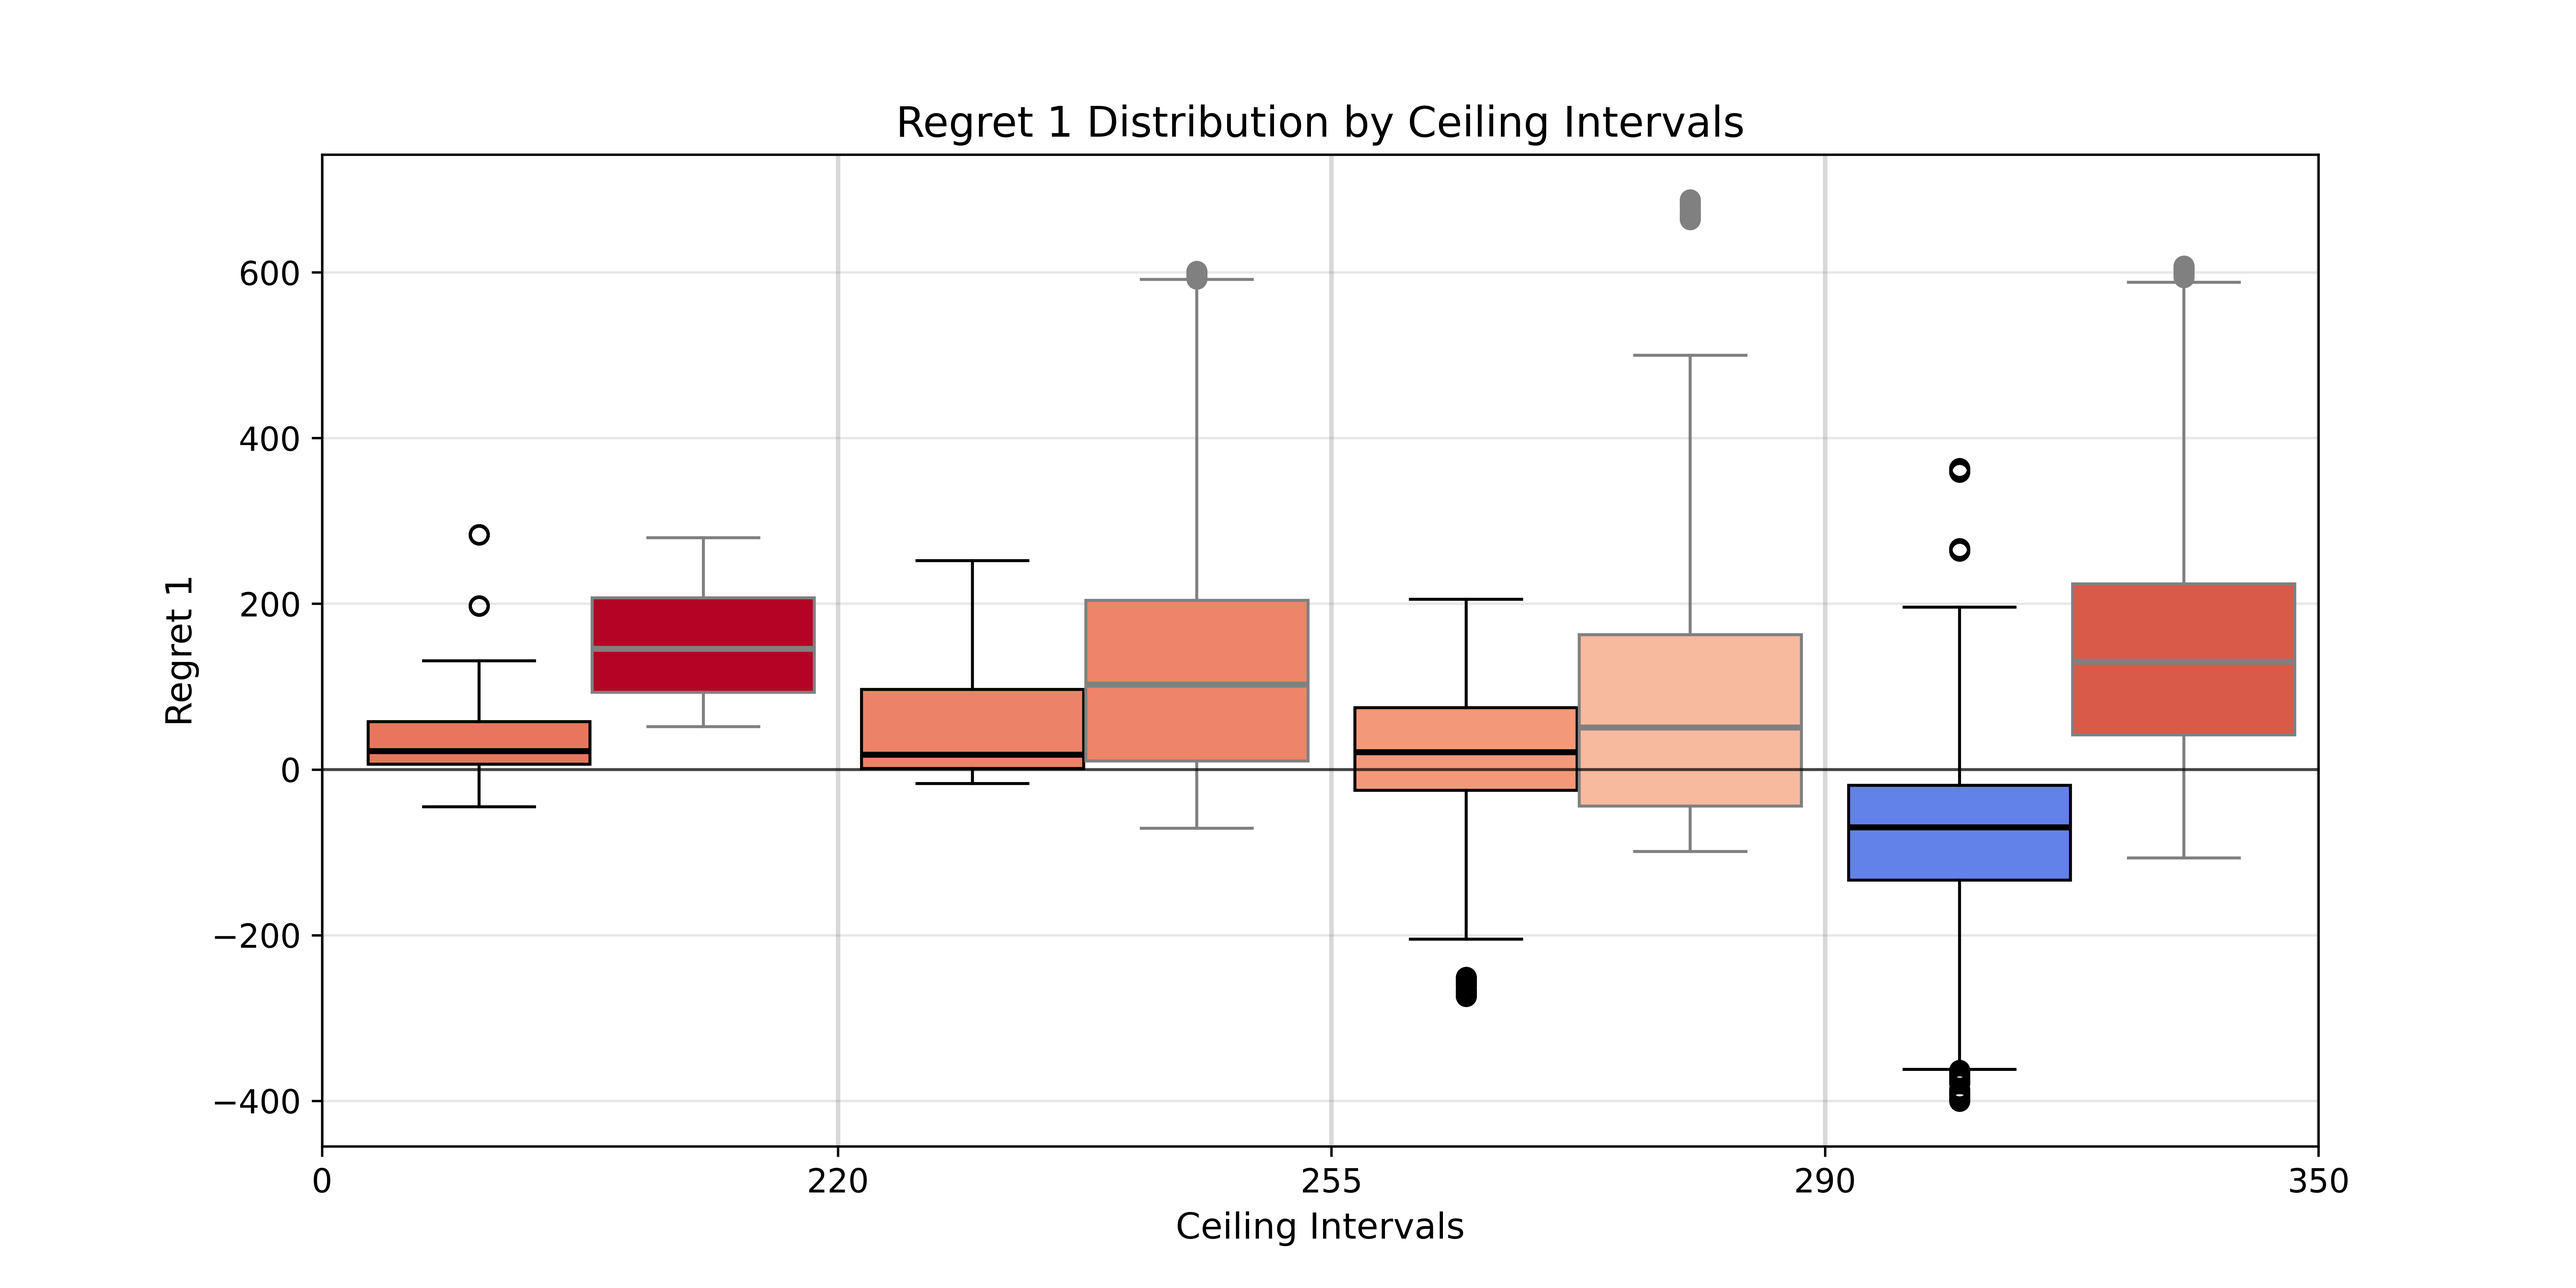
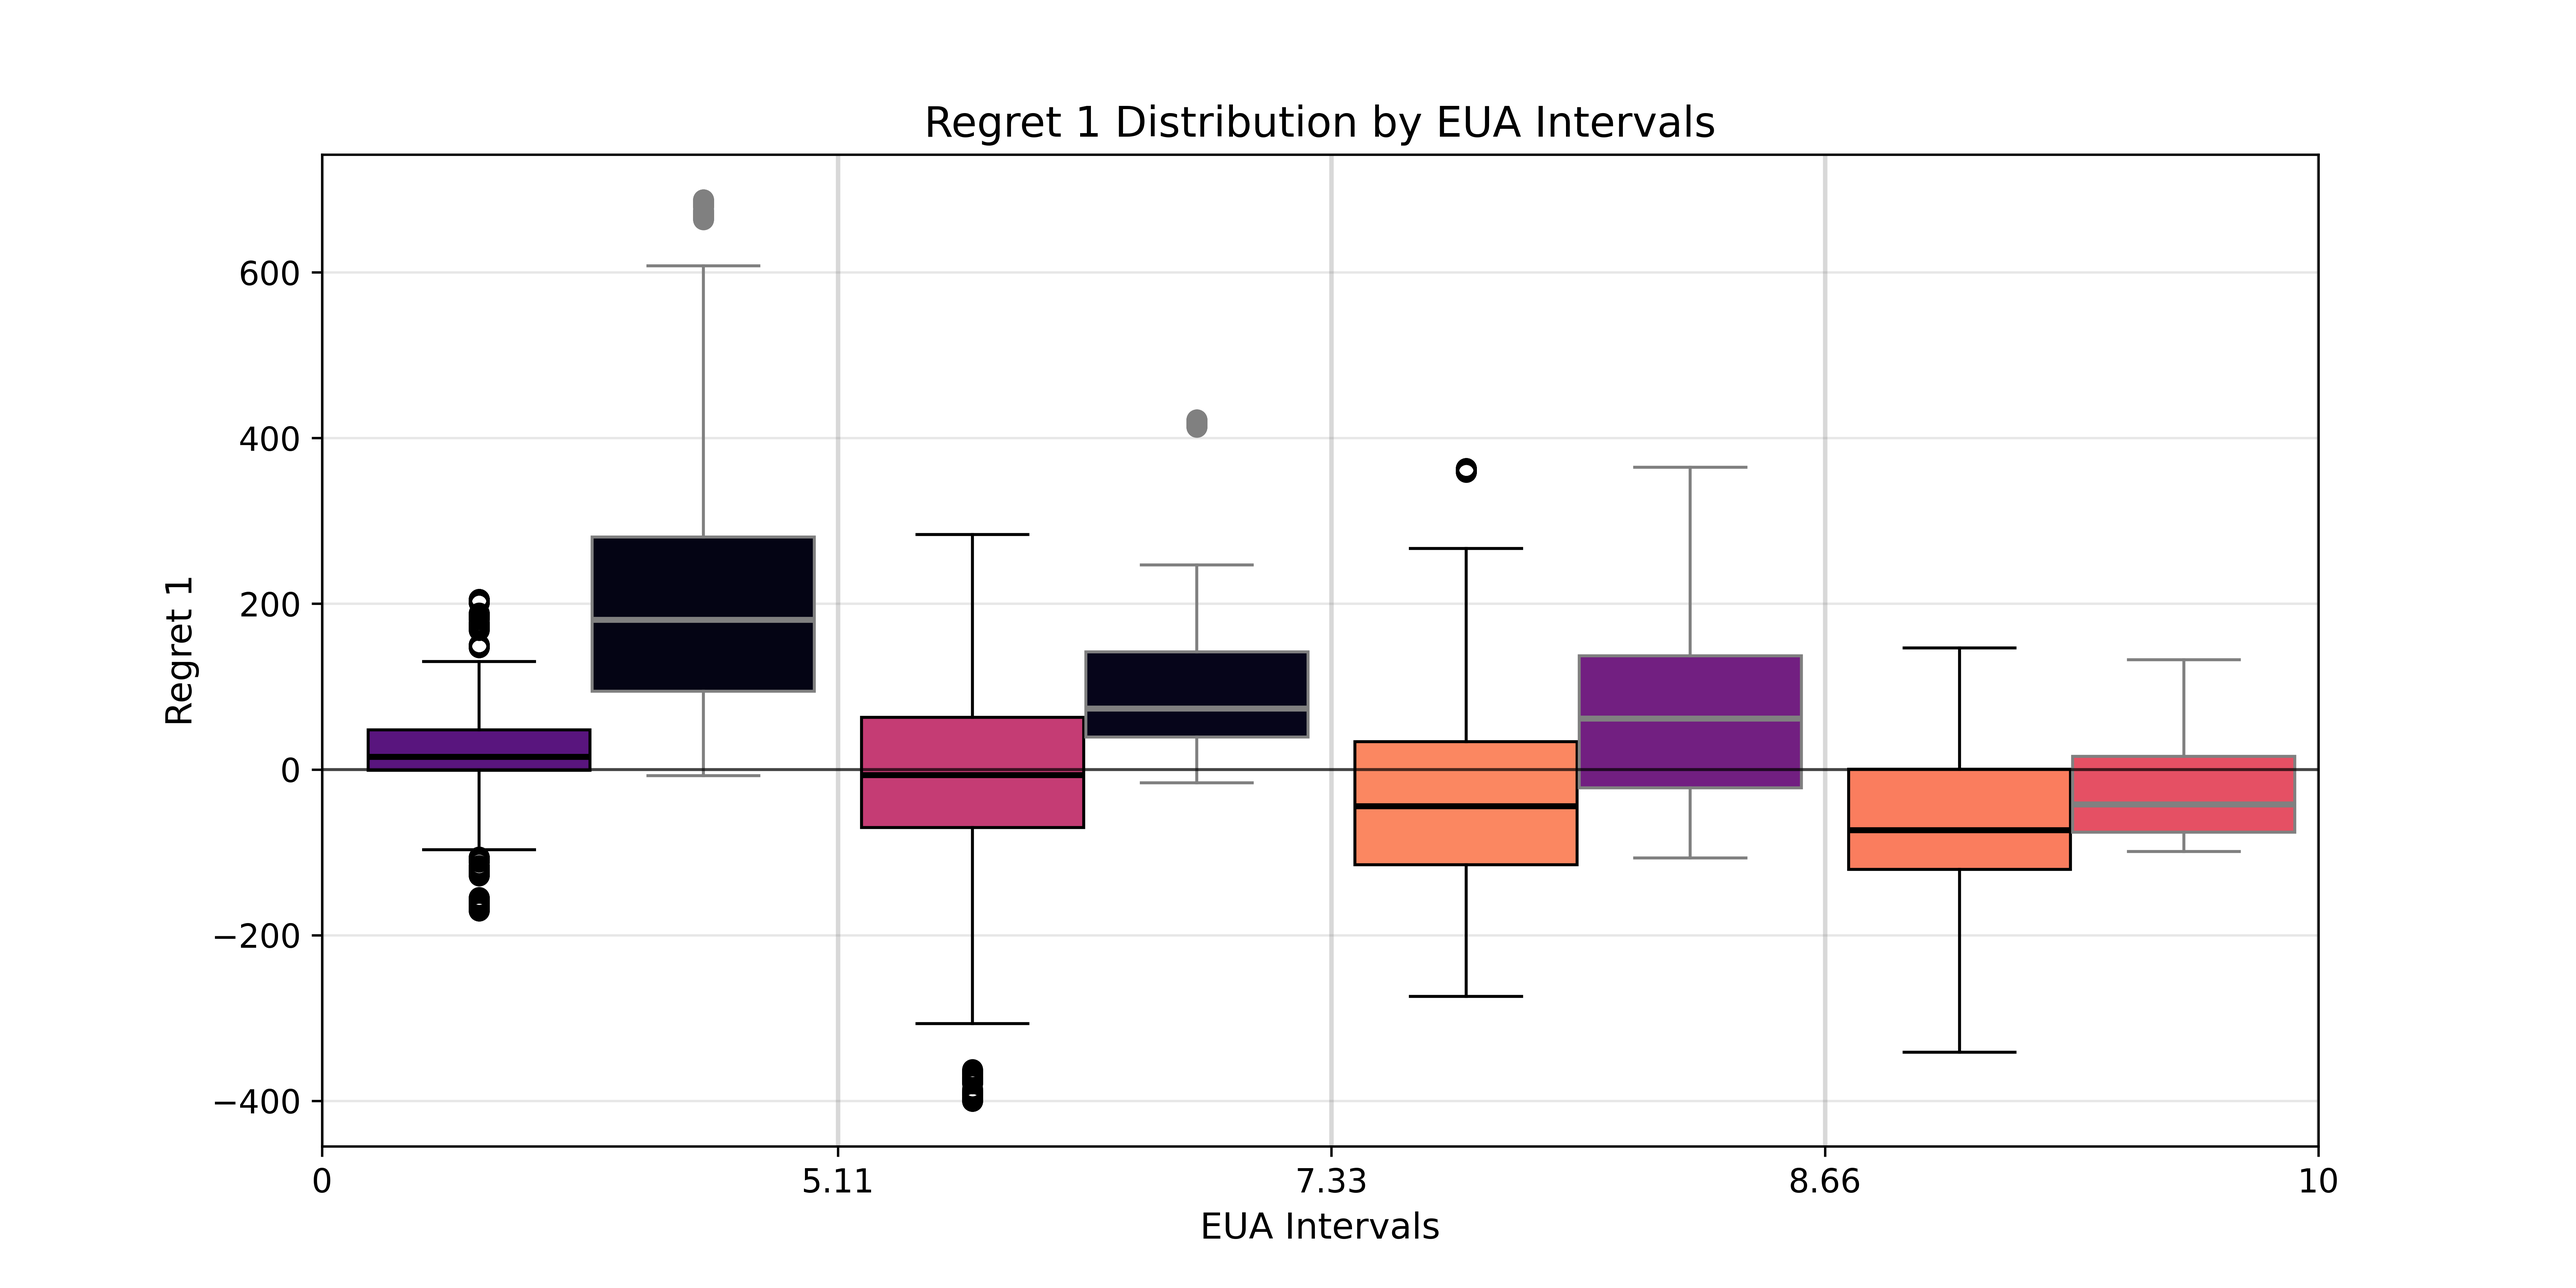
New sdplots

diff --git a/sdplot_2_alternative.py b/sdplot_2_alternative.py
@@ -18,8 +18,8 @@ data_false = data[data["Procurement"] == False].reset_index(drop=True)
 # crc_intervals = [(25, 120), (120, 170), (170, 220), (220, 300)]
 # labels = ["25-120", "120-170", "170-220", "220-300"]
 
-ceiling_intervals = [(0, 220), (220, 255), (255, 290), (290, 350)]
-labels = ["0-220", "220-255", "255-290", "290-350"]
+EUA_intervals = [(0, 5.11), (5.11, 7.33), (7.33, 8.66), (8.66, 10)]  # 0, 5.11, 7.33, 8.66, 10 intervals from CART analysis
+labels = ["0-5.11", "5.11-7.33", "7.33-8.66", "8.66-10"]
 
 plt.figure(figsize=(12, 6))
 box_data_true = []
@@ -27,9 +27,9 @@ box_data_false = []
 densities_true = []
 densities_false = []
 
-for start, end in ceiling_intervals:
-    data_true_interval = data_true[(data_true["ceiling"] >= start) & (data_true["ceiling"] < end)]
-    data_false_interval = data_false[(data_false["ceiling"] >= start) & (data_false["ceiling"] < end)]
+for start, end in EUA_intervals:
+    data_true_interval = data_true[(data_true["EUA"] >= start) & (data_true["EUA"] < end)]
+    data_false_interval = data_false[(data_false["EUA"] >= start) & (data_false["EUA"] < end)]
     
     box_data_true.append(data_true_interval["regret_1"])
     box_data_false.append(data_false_interval["regret_1"])
@@ -48,10 +48,10 @@ for start, end in ceiling_intervals:
     densities_false.append(density_false)
 
 print("Densities (fraction with regret_1 > 0) and data point counts:")
-for i, (start, end) in enumerate(ceiling_intervals):
+for i, (start, end) in enumerate(EUA_intervals):
     count_true = len(box_data_true[i])
     count_false = len(box_data_false[i])
-    print(f"ceiling {start}-{end}: Procurement=True: {densities_true[i]:.3f} ({count_true} points), Procurement=False: {densities_false[i]:.3f} ({count_false} points)")
+    print(f"EUA {start}-{end}: Procurement=True: {densities_true[i]:.3f} ({count_true} points), Procurement=False: {densities_false[i]:.3f} ({count_false} points)")
 
 # Create boxplots with proper positioning
 positions_true = [0.7, 2.9, 5.1, 7.3]
@@ -88,18 +88,18 @@ for element in ['boxes', 'whiskers', 'caps', 'medians', 'fliers']:
 for patch, color in zip(bp2["boxes"], colors_false):
     patch.set_facecolor(color)
 
-plt.xlabel("Ceiling Intervals", fontsize=12)
+plt.xlabel("EUA Intervals", fontsize=12)
 plt.ylabel("Regret 1", fontsize=12)
-plt.title("Regret 1 Distribution by Ceiling Intervals", fontsize=14)
+plt.title("Regret 1 Distribution by EUA Intervals", fontsize=14)
 # Create tick positions that align with vertical grid lines and interval boundaries
 # Ticks should be at: start of first interval, midpoints between box pairs, and end of last interval
 tick_positions = [0, 2.3, 4.5, 6.7, 8.9]  # Align with axvline positions and full range
-tick_labels = ["0", "220", "255", "290", "350"]  # Start and end values of intervals
+tick_labels = ["0", "5.11", "7.33", "8.66", "10"]  # Start and end values of intervals
 
 plt.xticks(tick_positions, tick_labels, fontsize=11)
 plt.yticks(fontsize=11)
 plt.grid(True, alpha=0.3, axis='y')  # Only horizontal grid lines
-# Add vertical grid lines between ceiling intervals
+# Add vertical grid lines between EUA intervals
 for pos in [0, 2.3, 4.5, 6.7, 8.9]:
     plt.axvline(x=pos, color='gray', alpha=0.3, linestyle='-')
 plt.xlim(0, 8.9)
@@ -112,14 +112,14 @@ plt.savefig("sd_2_integration.png", dpi=600)
 
 # Create a separate figure showing only Procurement=False boxes
 print("\nDensities for Procurement=False only:")
-for i, (start, end) in enumerate(ceiling_intervals):
+for i, (start, end) in enumerate(EUA_intervals):
     count_false = len(box_data_false[i])
-    print(f"ceiling {start}-{end}: Procurement=False: {densities_false[i]:.3f} ({count_false} points)")
+    print(f"EUA {start}-{end}: Procurement=False: {densities_false[i]:.3f} ({count_false} points)")
 
-plt.figure(figsize=(9, 3.75))
+plt.figure(figsize=(8, 4.25))
 
 # Create boxplots for Procurement=False only
-bp_false_only = plt.boxplot(box_data_false, positions=range(1, len(ceiling_intervals) + 1), 
+bp_false_only = plt.boxplot(box_data_false, positions=range(1, len(EUA_intervals) + 1), 
                            patch_artist=True, 
                            boxprops=dict(linewidth=1),
                            medianprops=dict(color='black', linewidth=2),
@@ -130,12 +130,12 @@ for patch, color in zip(bp_false_only["boxes"], colors_false):
     patch.set_facecolor(color)
 
 # Customize the plot
-plt.xlabel("Ceiling Intervals", fontsize=12)
+plt.xlabel("EUA Intervals", fontsize=12)
 plt.ylabel("Regret 1", fontsize=12)
-plt.title("Regret 1 Distribution by Ceiling Intervals (Procurement=False Only)", fontsize=14)
+plt.title("Regret 1 Distribution by EUA Intervals (Procurement=False Only)", fontsize=14)
 
 # Set tick positions and labels
-tick_positions = range(1, len(ceiling_intervals) + 1)
+tick_positions = range(1, len(EUA_intervals) + 1)
 tick_labels = labels
 plt.xticks(tick_positions, tick_labels, fontsize=14)
 plt.yticks(fontsize=14)
@@ -143,7 +143,7 @@ plt.gca().yaxis.set_major_locator(plt.MaxNLocator(nbins=6))
 
 plt.grid(True, alpha=0.3, axis='y')
 plt.axhline(y=0, color='black', linestyle='-', linewidth=1, alpha=0.7)
-# plt.xlim(0.5, len(ceiling_intervals) + 0.5)
+# plt.xlim(0.5, len(EUA_intervals) + 0.5)
 # get ylimits 
 y_limits = plt.ylim()
 plt.ylim(-150, y_limits[1])
@@ -154,14 +154,14 @@ plt.savefig("sd_2_integration_false_only.png", dpi=600)
 
 # Create a separate figure showing only Procurement=True boxes
 print("\nDensities for Procurement=True only:")
-for i, (start, end) in enumerate(ceiling_intervals):
+for i, (start, end) in enumerate(EUA_intervals):
     count_true = len(box_data_true[i])
-    print(f"ceiling {start}-{end}: Procurement=True: {densities_true[i]:.3f} ({count_true} points)")
+    print(f"EUA {start}-{end}: Procurement=True: {densities_true[i]:.3f} ({count_true} points)")
 
-plt.figure(figsize=(9, 3.75))
+plt.figure(figsize=(8, 4.25))
 
 # Create boxplots for Procurement=True only
-bp_true_only = plt.boxplot(box_data_true, positions=range(1, len(ceiling_intervals) + 1), 
+bp_true_only = plt.boxplot(box_data_true, positions=range(1, len(EUA_intervals) + 1), 
                           patch_artist=True, 
                           boxprops=dict(linewidth=1),
                           medianprops=dict(color='black', linewidth=2),
@@ -172,12 +172,12 @@ for patch, color in zip(bp_true_only["boxes"], colors_true):
     patch.set_facecolor(color)
 
 # Customize the plot
-plt.xlabel("Ceiling Intervals", fontsize=12)
+plt.xlabel("EUA Intervals", fontsize=12)
 plt.ylabel("Regret 1", fontsize=12)
-plt.title("Regret 1 Distribution by Ceiling Intervals (Procurement=True Only)", fontsize=14)
+plt.title("Regret 1 Distribution by EUA Intervals (Procurement=True Only)", fontsize=14)
 
 # Set tick positions and labels
-tick_positions = range(1, len(ceiling_intervals) + 1)
+tick_positions = range(1, len(EUA_intervals) + 1)
 tick_labels = labels
 plt.xticks(tick_positions, tick_labels, fontsize=14)
 plt.yticks(fontsize=14)
@@ -185,7 +185,7 @@ plt.gca().yaxis.set_major_locator(plt.MaxNLocator(nbins=6))
 
 plt.grid(True, alpha=0.3, axis='y')
 plt.axhline(y=0, color='black', linestyle='-', linewidth=1, alpha=0.7)
-# plt.xlim(0.5, len(ceiling_intervals) + 0.5)
+# plt.xlim(0.5, len(EUA_intervals) + 0.5)
 
 plt.tight_layout()
 plt.savefig("sd_2_integration_true_only.png", dpi=600)

diff --git a/other_plots/carbon_prices.py b/other_plots/carbon_prices.py
@@ -29,10 +29,10 @@ ax.fill_between(future_years_extended, low_scenario, high_scenario,
 x_vals = np.arange(2025, 2056, 3)  # markers every 3 years
 
 y_vals_low = np.full_like(x_vals, 50)
-ax.plot(x_vals, y_vals_low, color='deepskyblue', lw=1.5, marker='^', markersize=6, label='_nolegend_')
+ax.plot(x_vals, y_vals_low, color='#107E7D', lw=1.5, marker='^', markersize=6, label='_nolegend_')
 
 y_vals_high = np.full_like(x_vals, 400)
-ax.plot(x_vals, y_vals_high, color='deepskyblue', lw=1.5, marker='v', markersize=6, label='_nolegend_')
+ax.plot(x_vals, y_vals_high, color='#107E7D', lw=1.5, marker='v', markersize=6, label='_nolegend_')
 
 # Gray ETS cap band from 2025 onward
 ax.fill_between([2030, 2056], 200, 350, color='gray', alpha=0.2, label="ETS cap (200–350€/tCO₂)")
@@ -48,8 +48,8 @@ ax.plot(future_years_extended, mid_scenario, 'k--', label="Middle (+5 €/yr)")
 ax.plot(future_years_extended, high_scenario, 'k--', label="High (+10 €/yr)")
 
 # Subsidy line
-ax.plot([2028, 2043], [160, 160], color='crimson', linestyle='-', linewidth=2.0,
-        label="Auction subsidy Stockholm Exergi (160€/tCO₂)")
+ax.plot([2028, 2043], [160, 160], color='#D55174', linestyle='-', linewidth=2.5,
+        label="Subsidy Stockholm Exergi (160€/tCO₂)")
 
 # Labels and title with adjusted font sizes
 ax.set_xlabel("Year", fontsize=13)
@@ -61,7 +61,7 @@ ax.tick_params(axis='both', labelsize=11)
 
 # Custom legend entry for CRC range
 custom_lines = [
-    Line2D([0], [0], color='deepskyblue', lw=2, label='CRC range (50–400€/tCO₂)')
+    Line2D([0], [0], color='#107E7D', lw=2, label='VCM price range (50–400€/tCO₂)')
 ]
 existing_handles, existing_labels = ax.get_legend_handles_labels()
 ax.legend(handles=existing_handles + custom_lines, loc='upper left', fontsize=11)

diff --git a/controller_sobol.py b/controller_sobol.py
@@ -118,7 +118,7 @@ def analyze(results, ooi):
     return sobol_stats, s2, s2_conf, problem
 
 print("NOTE: Adapt the analyze() function to the outcome you want to analyze")
-sobol_stats, s2, s2_conf, problem = analyze(results, "regret_3")
+sobol_stats, s2, s2_conf, problem = analyze(results, "regret_1")
 print(sobol_stats)
 print(s2)
 print(s2_conf)
@@ -133,7 +133,7 @@ sns.barplot(
     x=sobol_stats_sorted["ST"],  # Sobol indices on x-axis
     xerr=sobol_stats_sorted["ST_conf"],  # Confidence intervals as error bars
     capsize=0.2,
-    color="crimson"
+    color="#FEBB98"
 )
 plt.ylabel("Parameter")
 plt.xlabel("Total Sobol Index (ST)")
@@ -182,10 +182,10 @@ for i in range(n):
             ax.plot(x_vals, y_vals, color='grey', alpha=0.6, linewidth=lw)
 
 # Plot ST nodes (base)
-ax.scatter(x, y, s=ST_scaled, color='crimson', alpha=1.0, edgecolor='none')
+ax.scatter(x, y, s=ST_scaled, color='#FEBB98', alpha=1.0, edgecolor='none')
 
 # Overlay S1 nodes (on top)
-ax.scatter(x, y, s=S1_scaled, color='lightpink', alpha=1.0, edgecolor='none')
+ax.scatter(x, y, s=S1_scaled, color='#D55174', alpha=1.0, edgecolor='none')
 
 # Add labels
 for i in range(n):
